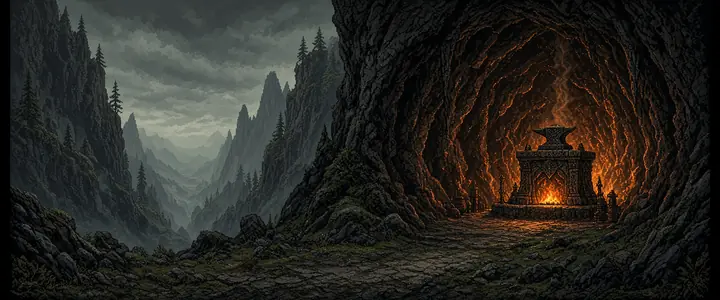
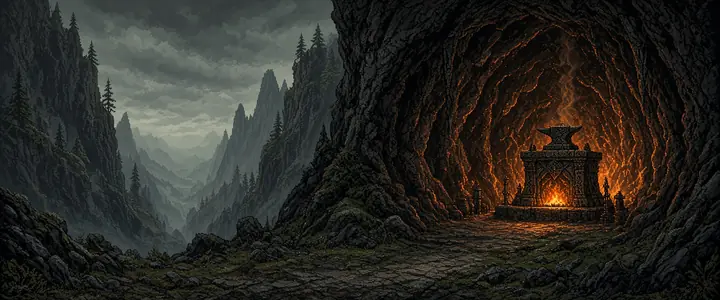
art: Silverwood Ruins backdrops + title key art (Grok Imagine)
Tier 1 batch 1 in the pixel style; interior-scene prompt rule added to docs/ART.md.
Fix: the 21:9 to 12:5 crop padded black side bars; all WebPs regenerated with a full-width crop.

Claude-Session: https://claude.ai/code/session_01G1ieR1Ws58B4uBMQBCqvG7

diff --git a/docs/ART.md b/docs/ART.md
@@ -82,6 +82,13 @@ uses the improved wording.
 | The Skyreach | Deep blue zenith fading to pale sky-blue, slate stone and cloud, warm pale-gold sunlight on stone. |
 | The Threshold | Black void, faint midnight-blue haze, a single cool silver-blue far light. |
 
+**Interior locations** (corridors, vaults, caverns, halls under ground): the light lines above name a sky, and Grok paints one
+into underground rooms. For interiors, (1) add "under a low stone ceiling" / "under a rock ceiling" to the subject line, (2) swap
+the region light line for an interior one — *"Enclosed underground, deep <region shadow colours>, <region accent> glow."* — and
+(3) in the style lock say "cinematic wide view" and "layered depth into the distance" instead of "panoramic" and "far horizon".
+Also name crystals as "a faceted crystal monolith": "crystal heart" came back as a literal ♥ shape. (Learned on the Silverwood
+interiors, round q, 2026-10-25.)
+
 ---
 
 ## 5. The shot list (77 prompts, in tiers)
@@ -276,6 +283,8 @@ Grok terms checked: 2026-10-24 — xAI's consumer FAQ (https://x.ai/legal/faq) s
 
 Session settings: Grok Imagine, Image, Quality 2.0, ×4, aspect **21:9** (widest offered; 2128 × 912, trims to 12:5 with a sliver off top and bottom). Round a used the original painterly lock; round p (2026-10-25) is the pixel lock now in §3. **Submit one prompt at a time and wait for its 4 images:** sending the next prompt while one is generating cancels the earlier one. Downloads land in `Downloads\\`; the session files them into `candidates\\`.
 
+Crop note: 21:9 (2.33) is slightly *taller* than 12:5 (2.4), so the crop keeps full width and trims ~12 px off top and bottom (an early convert script padded black side bars instead; fixed 2026-10-25 and every WebP regenerated).
+
 Conversion note: Grok's pixel art is ~3 screen px per art pixel at 2128 wide, so the LANCZOS resize to 1440 keeps a light, even pixel grain; no nearest-neighbour step is needed.
 
 | id | file | round / pick | crop offset | notes |
@@ -284,3 +293,10 @@ Conversion note: Grok's pixel art is ~3 screen px per art pixel at 2128 wide, so
 | `loc_emberforge` | `scenes/loc_emberforge.webp` (+`@sm`) | p / B3 | 0 | Pixel lock. Strongest hearth glow; forge sits right of centre, inside the 60%. |
 | `loc_lanternreed` | `scenes/loc_lanternreed.webp` (+`@sm`) | p / C2 | 0 | Pixel lock. Row of stilt huts, lantern windows, rope walkways. |
 | `loc_still_shore` | `scenes/loc_still_shore.webp` (+`@sm`) | p / D2 | 0 | Pixel lock. Midtones lifted (gamma 1.25). Faint far-shore spires (not in brief) kept: dim, read as distance. |
+| `title` | `title.webp` (+`@sm`) | p / T1 | 0 | Arch framing a violet rift, road leading in. |
+| `loc_crumbling_archway` | `scenes/loc_crumbling_archway.webp` (+`@sm`) | p / A1 | 0 | Keystone of carved faces, crystal trees both sides. |
+| `loc_darkened_corridor` | `scenes/loc_darkened_corridor.webp` (+`@sm`) | q / B4 | 0 | Interior reroll: round p painted sky into it. Fungal glow on the vaults. |
+| `loc_shattered_library` | `scenes/loc_shattered_library.webp` (+`@sm`) | p / C4 | 0 | Light shafts through the broken glass roof. |
+| `loc_silverwood_plaza` | `scenes/loc_silverwood_plaza.webp` (+`@sm`) | p / D3 | 0 | Misting fountains in a ring of colonnades. |
+| `loc_sunken_archives` | `scenes/loc_sunken_archives.webp` (+`@sm`) | q / E1 | 0 | Interior reroll. Stair into ley-lit water, soaked shelves. |
+| `loc_heartstone_depths` | `scenes/loc_heartstone_depths.webp` (+`@sm`) | q / F1 | 0 | Interior reroll; round p drew a ♥. Crystal monolith on a dais, nine plinths. Base for the three state variants. |
